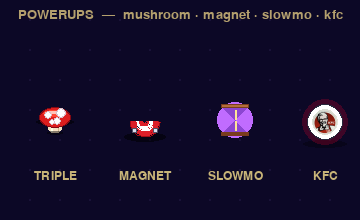
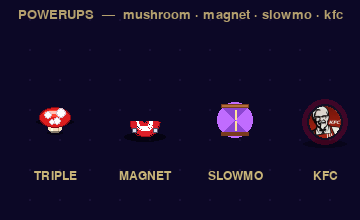
KFC sprite: fill full circle, remove white perimeter ring
Zoom in 38% to clip the logo's white outer ring, expand logo_size to
full diameter (r*2), and drop the white badge fill so the red circle
is edge-to-edge with only a thin dark outline.

https://claude.ai/code/session_01QLmFwvsNm2jED6FYmdcLwB

Changed region(s): [[0.8556, 0.4636, 0.9778, 0.6545]]

diff --git a/game/entities.py b/game/entities.py
@@ -33,7 +33,7 @@ def _get_kfc_sprite() -> "pygame.Surface":
     if _kfc_sprite is None:
         import os
         r         = MUSHROOM_R + 2
-        logo_size = int(r * 1.72)
+        logo_size = int(r * 2)
         path      = os.path.join(os.path.dirname(__file__), "assets", "kfc_logo.jpg")
         raw = pygame.image.load(path)
         # Crop to square (center crop on the wider axis)
@@ -41,10 +41,13 @@ def _get_kfc_sprite() -> "pygame.Surface":
         side = min(rw, rh)
         crop = pygame.Surface((side, side))
         crop.blit(raw, (-(rw - side) // 2, -(rh - side) // 2))
-        scaled = pygame.transform.smoothscale(crop, (logo_size, logo_size))
+        # Scale 38% larger so the white outer ring is pushed outside the circle mask
+        zoomed_size = int(logo_size * 1.38)
+        scaled = pygame.transform.smoothscale(crop, (zoomed_size, zoomed_size))
         # Convert to SRCALPHA so the circle mask can punch out corners
         logo = pygame.Surface((logo_size, logo_size), pygame.SRCALPHA)
-        logo.blit(scaled, (0, 0))
+        offset = (logo_size - zoomed_size) // 2
+        logo.blit(scaled, (offset, offset))
         mask = pygame.Surface((logo_size, logo_size), pygame.SRCALPHA)
         pygame.draw.circle(mask, (255, 255, 255, 255),
                            (logo_size // 2, logo_size // 2), logo_size // 2)
@@ -361,9 +364,8 @@ class PowerUp:
         pygame.draw.circle(glow, (228, 0, 43, glow_a), (glow_r + 2, glow_r + 2), glow_r + 2)
         surf.blit(glow, (cx - glow_r - 2, cy - glow_r - 2))
 
-        # White circle background
-        pygame.draw.circle(surf, (40, 40, 60),   (cx, cy), r + 2)   # dark outline
-        pygame.draw.circle(surf, (255, 255, 255), (cx, cy), r + 1)
+        # Dark outline ring behind the logo
+        pygame.draw.circle(surf, (20, 15, 35), (cx, cy), r + 2)
 
         # KFC logo (real image, pre-scaled & circle-clipped)
         logo = _get_kfc_sprite()
